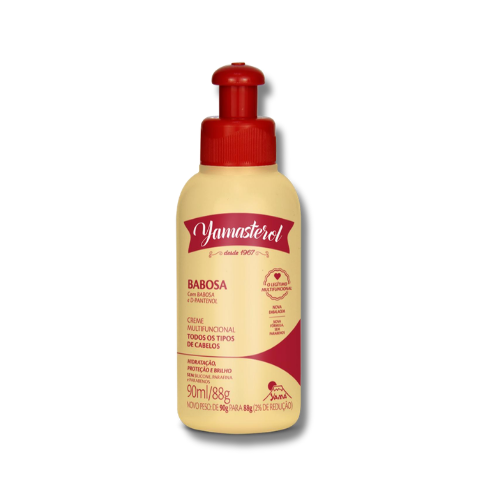
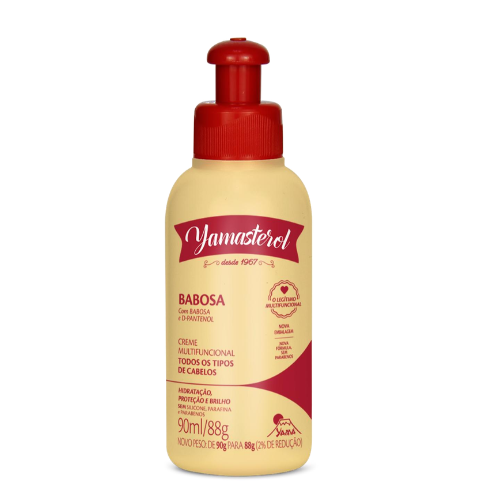
Atualiza foto do produto CREYAMBA9 (Yamasterol Babosa 90ml)

Changed region(s): [[0.33, 0.06, 0.63, 0.96]]

diff --git a/dados-version.js b/dados-version.js
@@ -1,1 +1,1 @@
-window.DADOS_ATUALIZADOS = "01/06/2026";
+window.DADOS_ATUALIZADOS = "02/06/2026";
